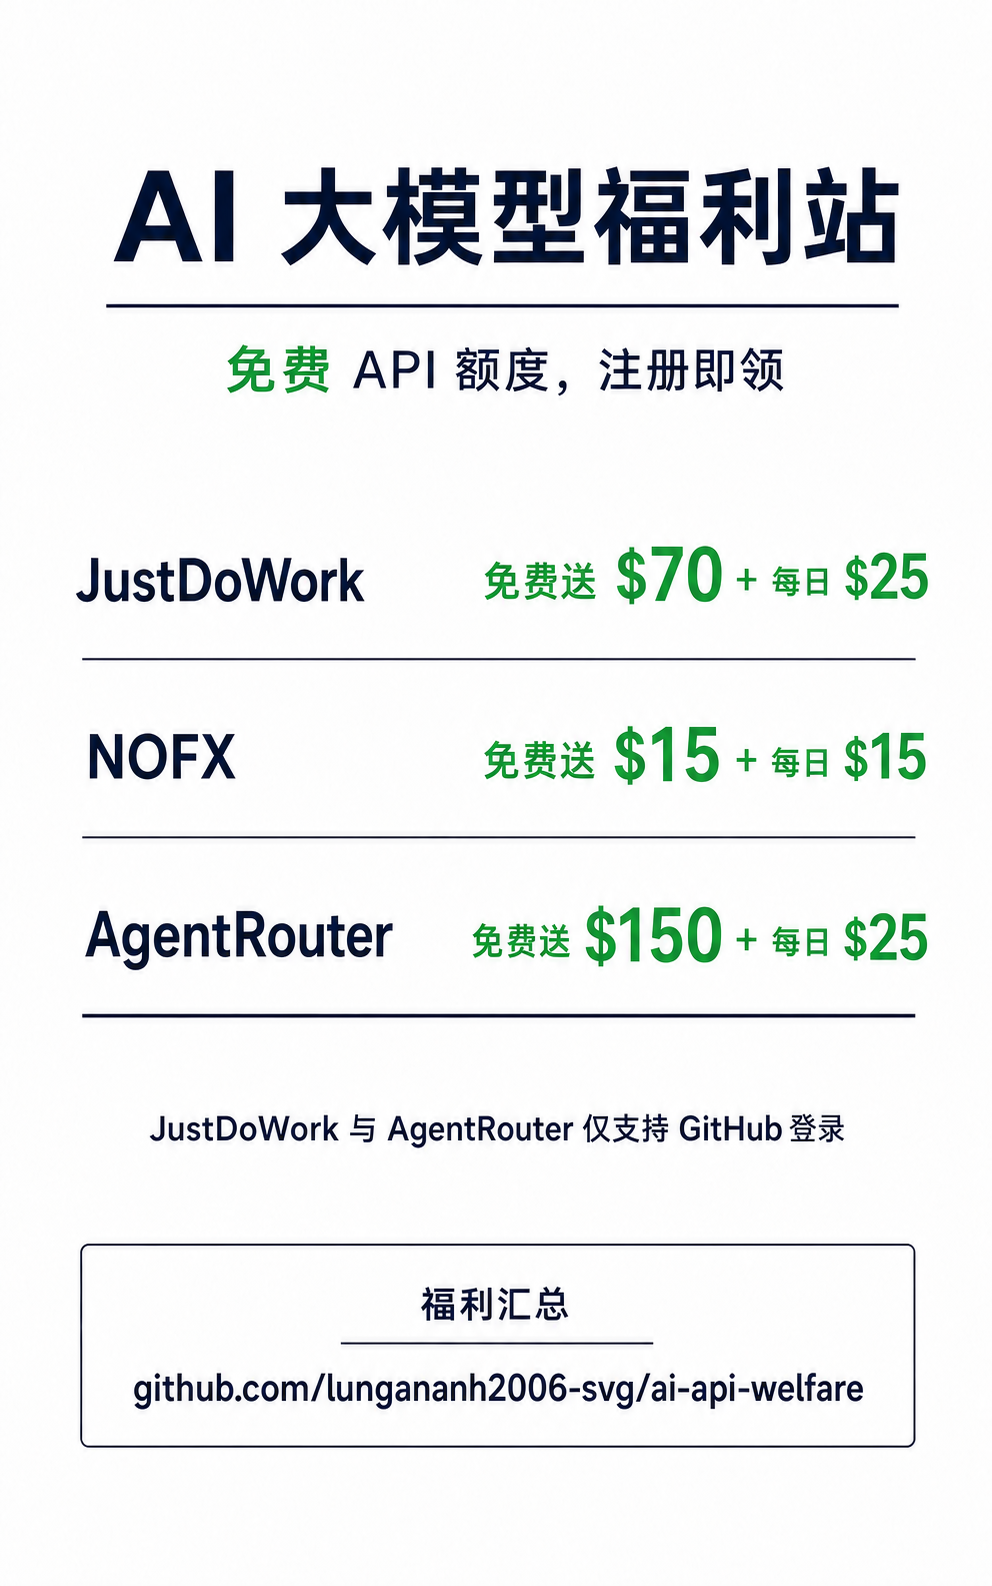
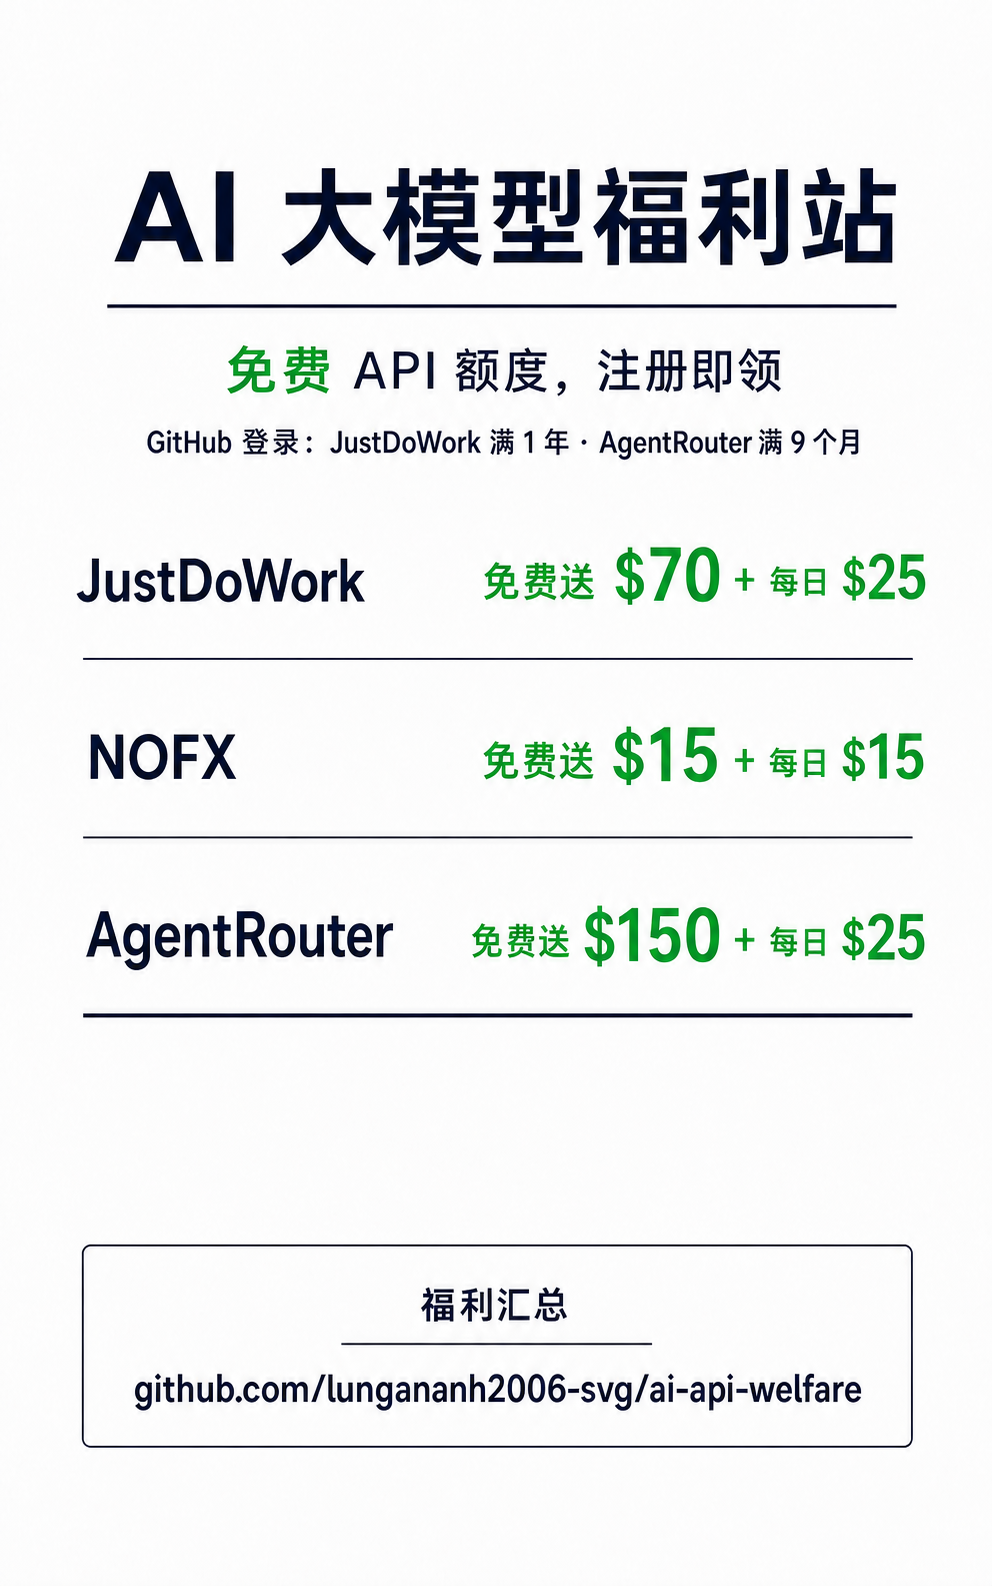
docs: resize poster and update login notice

diff --git a/README.md b/README.md
@@ -1,6 +1,8 @@
 # AI 大模型福利站
 
-![AI 大模型福利站海报](assets/ai-api-welfare-poster.png)
+<p align="center">
+  <img src="assets/ai-api-welfare-poster.png" alt="AI 大模型福利站海报" width="480">
+</p>
 
 AI 编程与 API 调用福利信息汇总。
 
